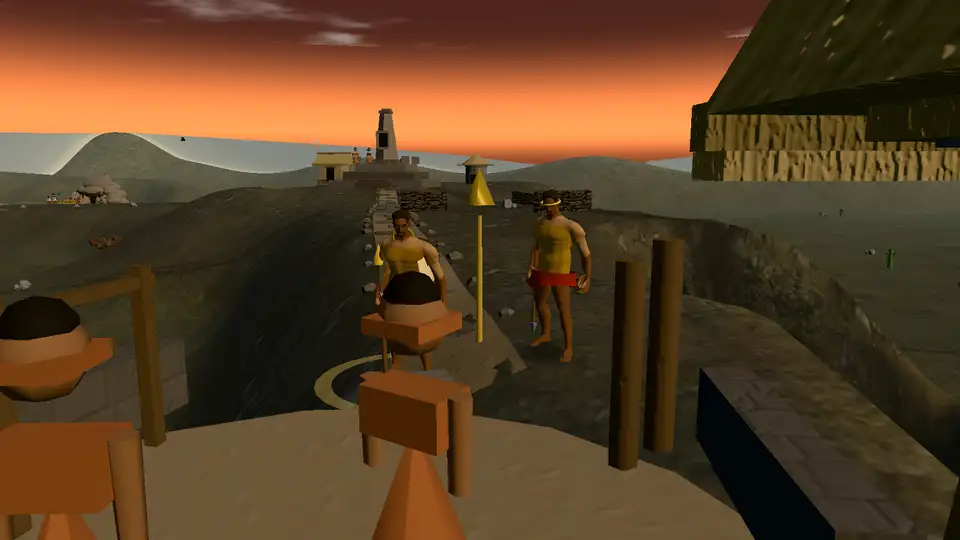
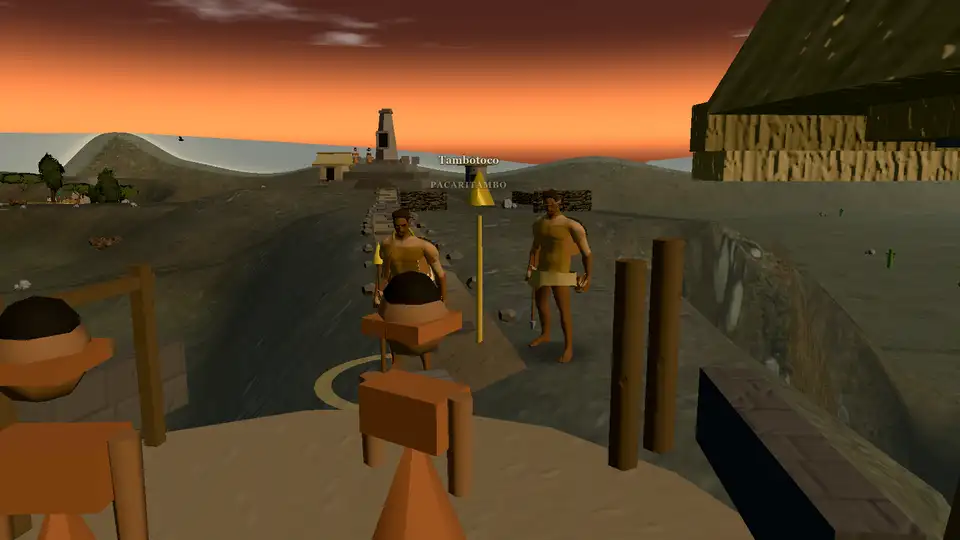
fix(tambotoco): resolve the Killke prefix and cite the rodela
The culture lookup used the first startsWith match, so inca_killke_*
resolved to inca and fell back to the Incan palette/role. Match the
longest prefix, pin culture/role/palette in the test, and keep the
documented rodela instead of claiming no shield. The outfit dossier
records the Killke/ayllu presentation abstraction and its source; the
hero capture is recut from the corrected variant.

diff --git a/tests/model-assets.test.ts b/tests/model-assets.test.ts
@@ -10,6 +10,7 @@ import {
 } from '../src/model/defs/modelAssets';
 import { CivId, Era, HistoricalPeriod, UnitKind } from '../src/core/types';
 import { CIVS } from '../src/model/defs/civs';
+import { andeanCultureForVariant, andeanPalette, andeanRoleForVariant } from '../src/model/defs/andeanCharacters';
 import { getPeriod } from '../src/model/defs/periods';
 import { unitTrainableInPeriod } from '../src/model/defs/units';
 import { MOUNTED_SPECS } from '../src/model/defs/mountedCharacters';
@@ -210,6 +211,14 @@ describe('rigged model assets', () => {
     expect(modelAssetIdsForMatch(HistoricalPeriod.VICEROYALTY, [CivId.REALISTAS])).toContain('caral_worker');
   });
 
+  it('resolves the longest Andean culture prefix and its palette', () => {
+    expect(andeanCultureForVariant('inca_killke_soldier_f')).toBe('inca_killke');
+    expect(andeanRoleForVariant('inca_killke_soldier_f')).toBe('soldier');
+    expect(andeanPalette('inca_killke').primary).toBe(0xb08a4a);
+    expect(andeanCultureForVariant('ayllus_worker_m')).toBe('ayllus');
+    expect(andeanCultureForVariant('inca_chasqui_m')).toBeNull();
+  });
+
   it('gives the Killke señorío and the valley ayllus their own variants', () => {
     expect(unitModelAsset(UnitKind.WORKER, Era.TAHUANTINSUYO, CivId.INCA_KILLKE, 1)?.variant).toBe(
       'inca_killke_worker_m',
@@ -226,7 +235,7 @@ describe('rigged model assets', () => {
     expect(unitModelAsset(UnitKind.SOLDIER, Era.TAHUANTINSUYO, CivId.INCA_KILLKE, 3, 'female')?.variant).toBe(
       'inca_killke_soldier_f',
     );
-    // The Killke señorío shares the Chanca kit, and the recursion must carry the override.
+    // The Killke señorío has its own variant, and the recursion must carry the override.
     expect(unitModelAsset(UnitKind.SOLDIER, Era.TAHUANTINSUYO, CivId.INCA_KILLKE, 3, 'female')?.asset).toBe(
       'caral_worker',
     );

diff --git a/src/model/defs/andeanCharacters.ts b/src/model/defs/andeanCharacters.ts
@@ -214,9 +214,10 @@ export const ANDEAN_SPECS: Record<AndeanCulture, AndeanSpec> = {
   collas_lupaca: GENERAL_ANDEAN_SPEC,
   huanca: GENERAL_ANDEAN_SPEC,
   // Killke ayllus: a plain tunic, short manta and sling; no imperial gear or metal.
-  inca_killke: { ...GENERAL_ANDEAN_SPEC, shield: false, manta: 'short' },
-  // Valley ayllus: the same plain kit, with the green/earth civ palette.
-  ayllus: { ...GENERAL_ANDEAN_SPEC, shield: false, manta: 'short' },
+  // Killke/ayllu honderos and porras (tambotoco-model-mission.md): plain tunic, short manta and the
+  // documented rodela (atuendos.md); no imperial helmet, maskapaycha or metal. Presentation abstraction.
+  inca_killke: { ...GENERAL_ANDEAN_SPEC, manta: 'short' },
+  ayllus: { ...GENERAL_ANDEAN_SPEC, manta: 'short' },
 };
 
 function andeanCultureForCiv(civ: CivId): AndeanCulture | null {
@@ -230,7 +231,11 @@ export function andeanCultureForEra(civ: CivId, era: Era): AndeanCulture | null 
 
 export function andeanCultureForVariant(variant: string): AndeanCulture | null {
   if (variant.startsWith('inca_chasqui_')) return null;
-  return ANDEAN_CULTURES.find((culture) => variant.startsWith(`${culture}_`)) ?? null;
+  // Longest prefix wins: `inca_killke_*` also starts with `inca_`.
+  return (
+    [...ANDEAN_CULTURES].sort((a, b) => b.length - a.length).find((culture) => variant.startsWith(`${culture}_`)) ??
+    null
+  );
 }
 
 export function andeanRoleForVariant(variant: string): AndeanRole | null {

diff --git a/docs/design/campaign-quality-bar.md b/docs/design/campaign-quality-bar.md
@@ -441,7 +441,7 @@ approved.
 | Onboarding  | Met: six-step tutorial that teaches controls (move, camp store, hunt, visit, water, canchas), briefing with the eight siblings and Codex.                                |
 | Closure     | Met: the epilogue tells the foundation as tradition and names both versions; no counterfactual is hidden.                                                                |
 | UX          | Met: campaign layout at 1600×900, the eight-card briefing at 1280×720, a left dialogue dock above the minimap, portrait chips for a selected cast, a large-screen HUD scale at 1920×1080 and `hud-layout.spec.ts`. |
-| Visuals     | Met (E3a–E3b): 256 m transect, the modular terrain-conformed ayllu kit (coursed stone, thatch houses, qollqas, terraced fields, paved plaza at grade), contact AO/macro colour, battered walls and a layered thatch eave, the cave and Huanacaure huaca GLBs, the highland molle/pacay kit (ichu ground-cover stand at a trimmed budget) with a 14 m LOD0 radius, soft stream banks and a dry ford bar, dirt-shouldered stone paths with bank/path stones, Killke/ayllu unit variants (E4a), plus the approved EEVEE intro render (`m_tambotoco-intro`). E4–E6 of the art-direction pilot ([`tambotoco-art-pilot.md`](./tambotoco-art-pilot.md)) are pending; it is a quality gate, not a rebuild. |
+| Visuals     | Met (E3a–E3b): 256 m transect, the modular terrain-conformed ayllu kit (coursed stone, thatch houses, qollqas, terraced fields, paved plaza at grade), contact AO/macro colour, battered walls and a layered thatch eave, the cave and Huanacaure huaca GLBs, the highland molle/pacay kit (ichu ground-cover stand at a trimmed budget) with a 14 m LOD0 radius, soft stream banks and a dry ford bar, dirt-shouldered stone paths with bank/path stones, Killke/ayllu unit variants (E4a), plus the approved EEVEE intro render (`m_tambotoco-intro`). E4b–E6 of the art-direction pilot ([`tambotoco-art-pilot.md`](./tambotoco-art-pilot.md)) are pending; it is a quality gate, not a rebuild. |
 | Persistence | Met: save/load round-trip in `save-campaign.spec.ts`.                                                                                                                    |
 | Tests       | Met: `tests/tambotoco.test.ts` (cast, tags, huaca beats), scale, campaign path and the campaign E2E specs.                                                               |
 | Docs        | Met: dossier, `tambotoco-model-mission.md`, this table and the redesign status.                                                                                          |

diff --git a/docs/plan/backlog.md b/docs/plan/backlog.md
@@ -12,7 +12,7 @@ GitHub issue or PR, link it here instead of copying the discussion. The live mis
 | --- | --- | --- | --- | --- |
 | B0 | Documentation foundation | There was no entry point to the docs, no ADR log and no roadmap | `docs/README.md`, `docs/GDD.md`, `docs/DECISIONS/` and `docs/plan/` exist, links resolve, and `AGENTS.md`/`README.md`/`CONTRIBUTING.md` point to them | In review (this PR) |
 | B6 | Real-GPU pass for the remaining model-mission site views | m1, m2, Tambotoco and Lima openings are already in #447; the site views of m3–m9, m6b and La Junta still rest on structural SwiftShader benches | Frame time and draw calls are recorded at 1280×800 and 1600×900; a decision is documented | Queued |
-| B12 | Tambotoco art-direction pilot | Tambotoco replaces Caral as the visual reference; the 2026-11-16 kit pass is the baseline, not the target | E0–E6 of [`../design/tambotoco-art-pilot.md`](../design/tambotoco-art-pilot.md) close: art direction and pilot docs, light/terrain, architecture (E2a/E2b done), highland vegetation (E3a done), soft banks/ford and paths (E3b done), common variants (E4a done), hero variant, cinematic beats, 3 × 3 captures, bench and human approval | In progress (E3b) |
+| B12 | Tambotoco art-direction pilot | Tambotoco replaces Caral as the visual reference; the 2026-11-16 kit pass is the baseline, not the target | E0–E6 of [`../design/tambotoco-art-pilot.md`](../design/tambotoco-art-pilot.md) close: art direction and pilot docs, light/terrain, architecture (E2a/E2b done), highland vegetation (E3a done), soft banks/ford and paths (E3b done), common variants (E4a done), hero variant, cinematic beats, 3 × 3 captures, bench and human approval | In progress (E4a) |
 | B7 | Package the itch build | The Pages build exists; the itch upload was deferred | The package is built from the release commit, checked and uploaded with `butler` | Blocked (tooling) |
 
 ## Closed this cycle

diff --git a/docs/historia/atuendos.md b/docs/historia/atuendos.md
@@ -113,6 +113,11 @@ era). Donde un dato no está atestiguado se indica **«no documentado»**; no se
 | Formativo (Caral/Chavín) | taparrabos + manta simple | cinta de tela | porra/macana de piedra | — | — |
 | Estados Regionales (Moche/Nazca/Recuay/Tiahuanaco/Wari) | uncu/túnica con tocapu | casco cónico (metal) o diadema + orejeras | porra + lanza/honda | túnica acolchada, backflap (Moche), disco pectoral (Wari) | rodela |
 | Tahuantinsuyo (Inca/Chanca/Chimú/Chincha) | uncu ajedrezado + canesú rojo | llawt'u + maskapaycha (élite), diadema+orejeras | porra + honda (sierra); arco (aux. selva) | casco acolchado | rodela |
+
+- **Killke y ayllus del valle (Intermedio Tardío, presentación)**: uncu simple, manta corta y **rodela**;
+  sin maskapaycha ni metal imperial. Los honderos y porras son la abstracción de juego del señorío
+  (`docs/design/tambotoco-model-mission.md`); no hay una prenda Killke documentada pieza por pieza.
+
 | Virreinato (Realistas) | casaca/chupa azul, divisa roja | morrión/bicornio | fusil/arcabuz + sable/lanza | cuera (frontera) | — |
 | República (Patriotas/Guerra del Pacífico) | guerrera/dormán azul, pantalón | kepí (chacó en gala) | fusil Comblain/Peabody-Martini + bayoneta | — | — |
 | Contemporáneo (Perú) | uniforme de campaña | casco | fusil de asalto | chaleco | — |

diff --git a/PROVENANCE.md b/PROVENANCE.md
@@ -200,7 +200,7 @@ slot is absent (offline / without assets).
 ### Tambotoco E4a Killke/ayllu variants (in-engine evidence)
 
 - **Location**: `docs/media/tambotoco-e4a-hero-{before,after}.webp`, 960x540 WebP q58, ~36 KB.
-- **Source**: `yarn art:pilot --tag=e4a --quality=neutral --sizes=1600x900 --views=hero` on this branch;
+- **Source**: `yarn art:pilot --tag=e4a2 --quality=neutral --sizes=1600x900 --views=hero` on this branch;
   `before` is `d32c526` (E3b, Chanca proxy). The `hero` view stages Ayar Manco and a worker at the hualla.
 - **Content**: both figures use the same CC0 `caral_worker` asset; E4a selects the Killke and valley-ayllu
   palettes/garments instead of the Chanca proxy. No new mesh, body or clip is added.
